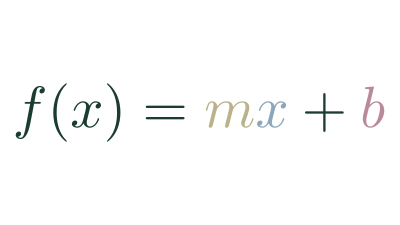
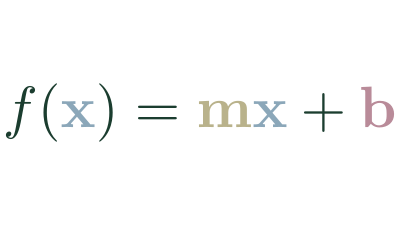
fix colouring in cover.

diff --git a/code/manim/linear_func_cover.py b/code/manim/linear_func_cover.py
@@ -6,7 +6,7 @@ from theme import Theme
 
 class LinearFuncCover(Scene):
     def construct(self):
-        cross_product = MathTex(r"f(x)", r" = ", r" {m}", r"{x}", r" + ", r" {b}", font_size=200).set_color(Theme.TEXT_COLOR)
+        cross_product = MathTex(r"f(", r"\mathbf{x}", r")", r" = ", r" \mathbf{m}", r"\mathbf{x}", r" + ", r" \mathbf{b}", font_size=200).set_color(Theme.TEXT_COLOR)
         cross_product.set_color_by_tex("{m}", Theme.COLOR_1)
         cross_product.set_color_by_tex("{x}", Theme.COLOR_2)
         cross_product.set_color_by_tex("{b}", Theme.COLOR_3)
